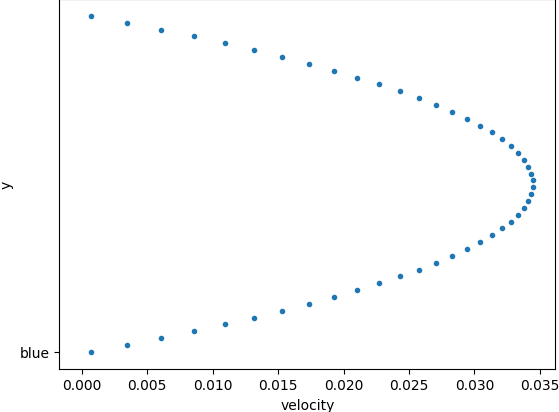
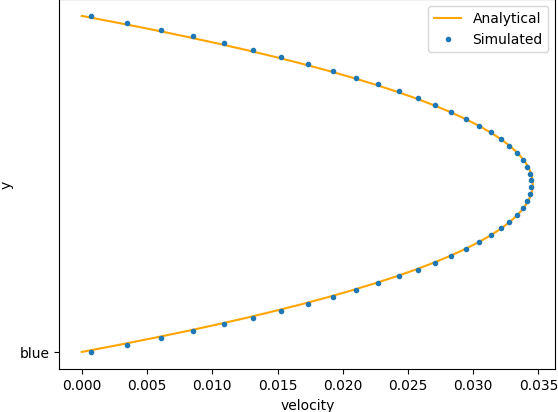
Add poiseuille new with analytical

diff --git a/plot.py b/plot.py
@@ -101,23 +101,23 @@ class Plotter3:
     def plot_poiseuille_flow(self, rho, velocities, omega, pressure_in, pressure_out, step, nx, ny):
         y = np.arange(ny)
         self.ax.cla()
-        #viscosity = 1/3 * (1/omega - 0.5)
-        #dynamic_viscosity = rho[nx//2, :] * viscosity
-        #partial_derivative = (pressure_out - pressure_in) / nx
-        #analytical = (-0.5 * partial_derivative * y *
-        #              (ny - 1 - y)) / dynamic_viscosity
+        viscosity = 1/3 * (1/omega - 0.5)
+        dynamic_viscosity = rho[nx//2, :] * viscosity
+        partial_derivative = (pressure_out - pressure_in) / nx
+        analytical = (-0.5 * partial_derivative * y *
+                      (ny - 1 - y)) / dynamic_viscosity
         
-        shear_viscosity = (1 / omega - 0.5) / 3
-        delta = 2.0 / nx / shear_viscosity / 2.
-        y = np.linspace(0, ny, ny)
-        u_analytical = delta * y * (ny - y) / 3.
+        #shear_viscosity = (1 / omega - 0.5) / 3
+        #delta = 2.0 / nx / shear_viscosity / 2.
+        #y = np.linspace(0, ny, ny)
+        #analytical = delta * y * (ny - y) / 3.
 
         # ax.set_xlim([0, np.max(analytical) + 0.001])
-        #self.ax.plot(u_analytical, y, COLORS[ANALYTIC])
+        self.ax.plot(analytical, y, COLORS[ANALYTIC])
         self.ax.plot(velocities[0, nx//2, :], y, '.', COLORS[SIMULATION])
         self.ax.set_ylabel('y')
         self.ax.set_xlabel('velocity')
-        #self.ax.legend(['Analytical','Simulated'])
+        self.ax.legend(['Analytical','Simulated'])
         save_path = os.path.join(self.path, f'pousielle_flow_{step}')
         self.fig.savefig(save_path, bbox_inches='tight', pad_inches=0)
 
